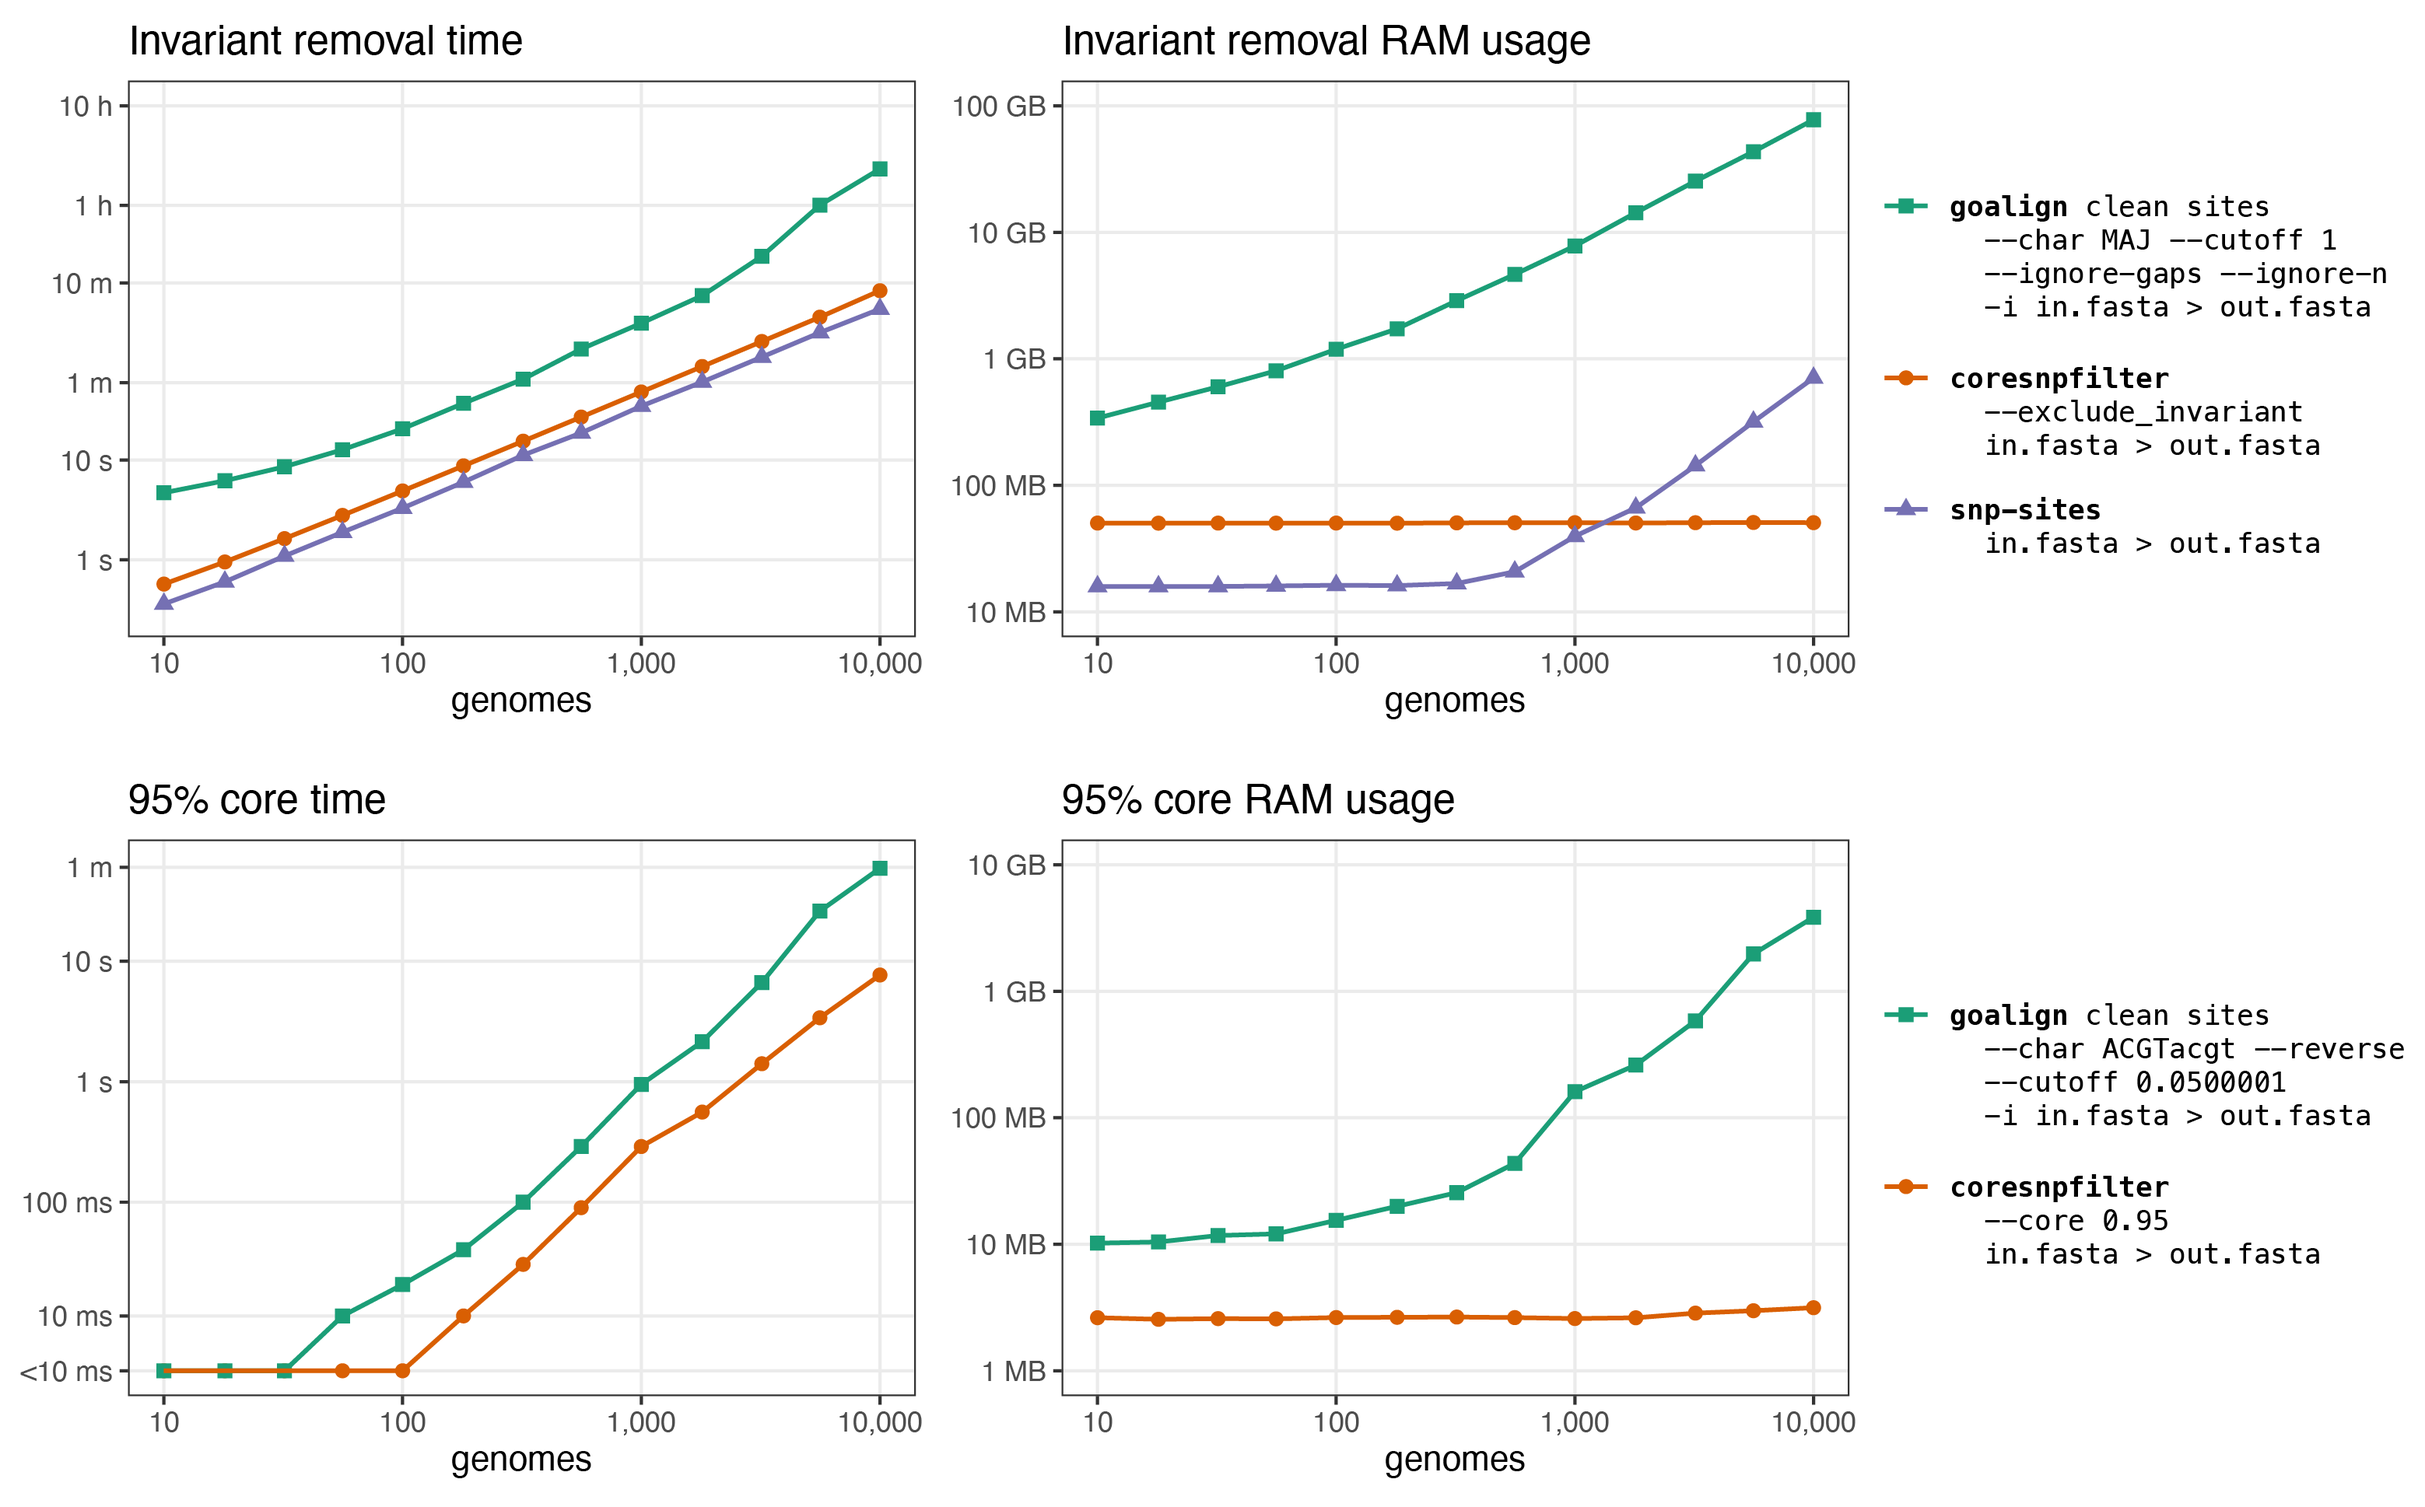
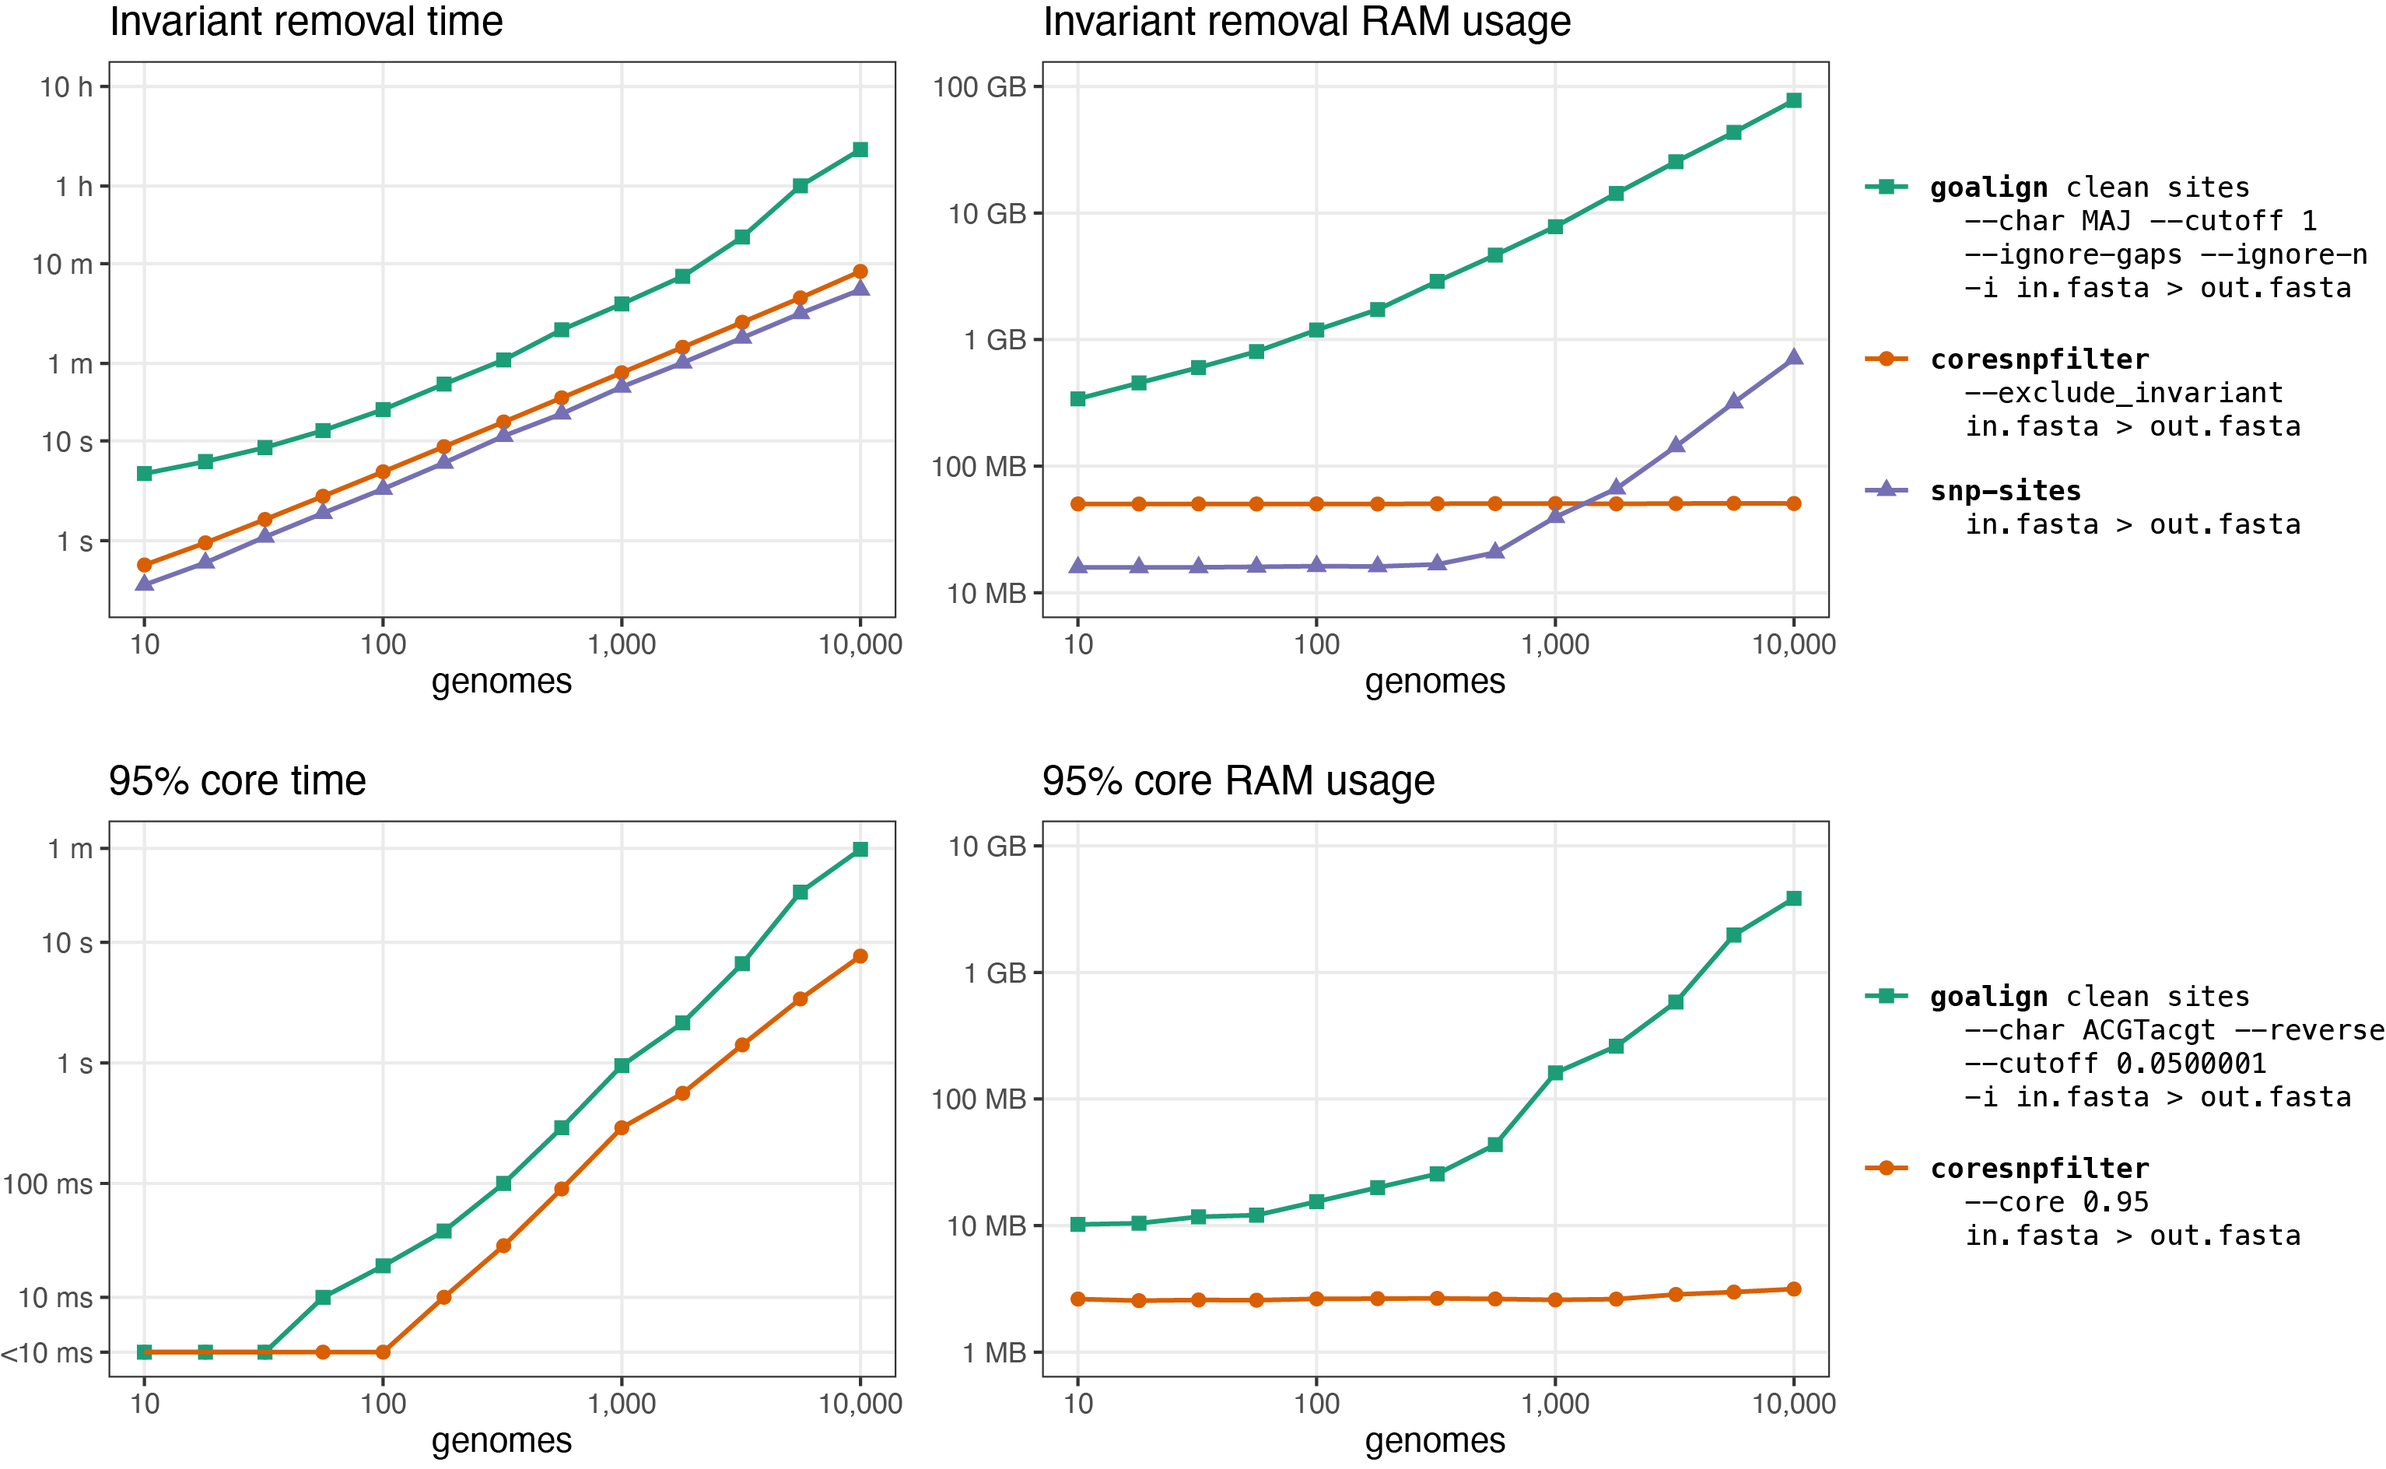
Add dark-mode results

diff --git a/benchmarking/README.md b/benchmarking/README.md
@@ -129,8 +129,7 @@ Some notes:
 
 ## Results
 
-<p align="center"><img src="results.png" alt="Benchmarking results" width="100%"></p>
-
+<p align="center"><picture><source srcset="results-dark.png" media="(prefers-color-scheme: dark)"><img src="results.png" alt="Benchmarking results" width="100%"></picture></p>
 
 
 
